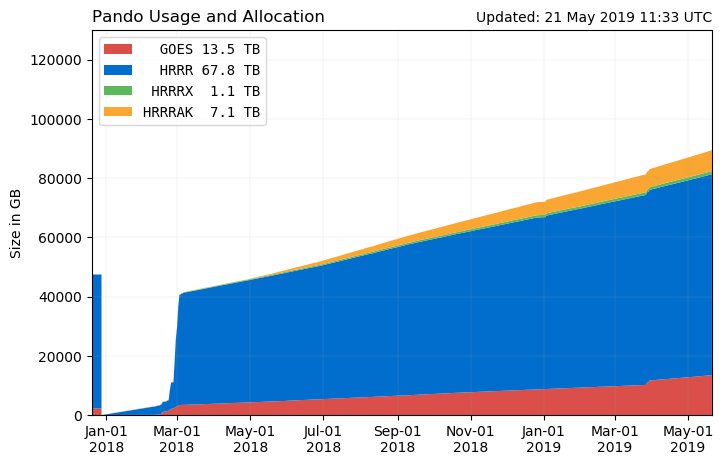
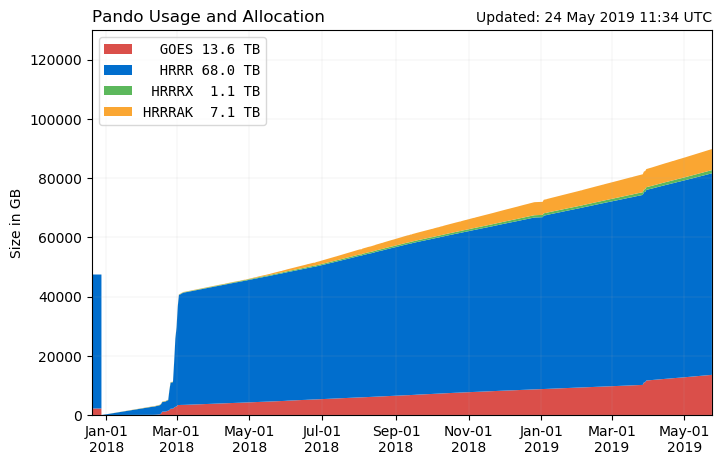
updates

diff --git a/Pando_archive/index.html b/Pando_archive/index.html
@@ -46,7 +46,7 @@
 
 <br>
   <script src='./js/pando_status.js'></script>
-    <center><font size=12> 89.5 TB out of 130 TB</font>
+    <center><font size=12> 89.8 TB out of 130 TB</font>
     <div class="progress" style="max-width:700px;height:35px">
             <div class="progress-bar progress-bar-danger" role="progressbar" style="width:10%">
               <font size=4></font>
@@ -73,9 +73,9 @@
         <th style='text-align:center'>Estimated Full Date</th>
       </tr>
       <tr>
-        <td>124.57 GB</td>
+        <td>123.58 GB</td>
         <td>325</td>
-        <td>10 April 2020</td>
+        <td>13 April 2020</td>
       </tr>
     </table>
     <table class="table table-bordered" style='text-align:center;max-width:700px'>
@@ -86,18 +86,18 @@
       </tr>
       <tr>
         <th style='text-align:right'>ABI-L2-MCMIPC</th>
-        <td>16.33</td>
-        <td>16.13</td>
+        <td>16.48</td>
+        <td>16.16</td>
       </tr>
       <tr>
         <th style='text-align:right'>GLM-L2-LCFA</th>
-        <td>1.26</td>
-        <td>0.92</td>
+        <td>1.55</td>
+        <td>0.86</td>
       </tr>
       <tr>
         <th style='text-align:right'>Total</th>
-        <th style='text-align:center'>17.59 GB</th>
-        <th style='text-align:center'>17.05 GB</th>
+        <th style='text-align:center'>18.02 GB</th>
+        <th style='text-align:center'>17.02 GB</th>
       </tr>
     </table>
 
@@ -111,13 +111,13 @@
       </tr>
       <tr>
         <th style='text-align:right'>sfc</th>
-        <td>59.54</td>
-        <td>3.42</td>
-        <td>18.07</td>
+        <td>58.60</td>
+        <td>3.23</td>
+        <td>17.98</td>
       </tr>
       <tr>
         <th style='text-align:right'>prs</th>
-        <td>8.90</td>
+        <td>8.73</td>
         <td>0.00</td>
         <td>0.00</td>
       </tr>
@@ -129,9 +129,9 @@
       </tr>
       <tr>
         <th style='text-align:right'>Total</th>
-        <th style='text-align:center'>68.44 GB</th>
-        <th style='text-align:center'>3.42 GB</th>
-        <th style='text-align:center'>18.07 GB</th>
+        <th style='text-align:center'>67.33 GB</th>
+        <th style='text-align:center'>3.23 GB</th>
+        <th style='text-align:center'>17.98 GB</th>
       </tr>
     </table>
 
@@ -142,7 +142,7 @@
     <a href="https://github.com/blaylockbk/Web-Homepage/blob/master/Pando_archive/index.html"><i class="fab fa-github"></i> Page</a>
     <a href="https://github.com/blaylockbk/Web-Homepage/blob/master/Pando_archive/daily_usage.py"><i class="fab fa-github"></i> Plot</a>
     <br>
-    Last Updated: 21 May 2019 11:33 UTC
+    Last Updated: 24 May 2019 11:34 UTC
   </div>
 
 </div>

diff --git a/hrrr_fires.html b/hrrr_fires.html
@@ -95,7 +95,7 @@ This page is created dynamically in the scirpt /oper/HRRR_fires/manager.py
     <p><a class='btn btn-default' style='width:100%' href="https://rmgsc.cr.usgs.gov/outgoing/GeoMAC/ActiveFirePerimeters.kml" target="_blank">Active Fire KMZ USGS <i class="fa fa-external-link-alt"></i></a>
     <p><a class='btn btn-default' style='width:100%' href="https://earthdata.nasa.gov/earth-observation-data/near-real-time/firms/active-fire-data" target="_blank">Active Fire KMZ EarthData <i class="fa fa-external-link-alt"></i></a>
     <p><a class='btn btn-success' style='width:100%' href="https://rmgsc.cr.usgs.gov/outgoing/GeoMAC/current_year_fire_data/current_year_all_states/" target="_blank">Active Fire Perimeter ShapeFile <i class="fa fa-external-link-alt"></i></a>
-    <p><a class='btn btn-success' style='width:100%' href="https://fsapps.nwcg.gov/afm/data/lg_fire/lg_fire_info_2019-05-21.txt" target="_blank">Active Fire Text <i class="fa fa-external-link-alt"></i></a>
+    <p><a class='btn btn-success' style='width:100%' href="https://fsapps.nwcg.gov/afm/data/lg_fire/lg_fire_info_2019-05-24.txt" target="_blank">Active Fire Text <i class="fa fa-external-link-alt"></i></a>
     </div>
 </center>
 </div>
